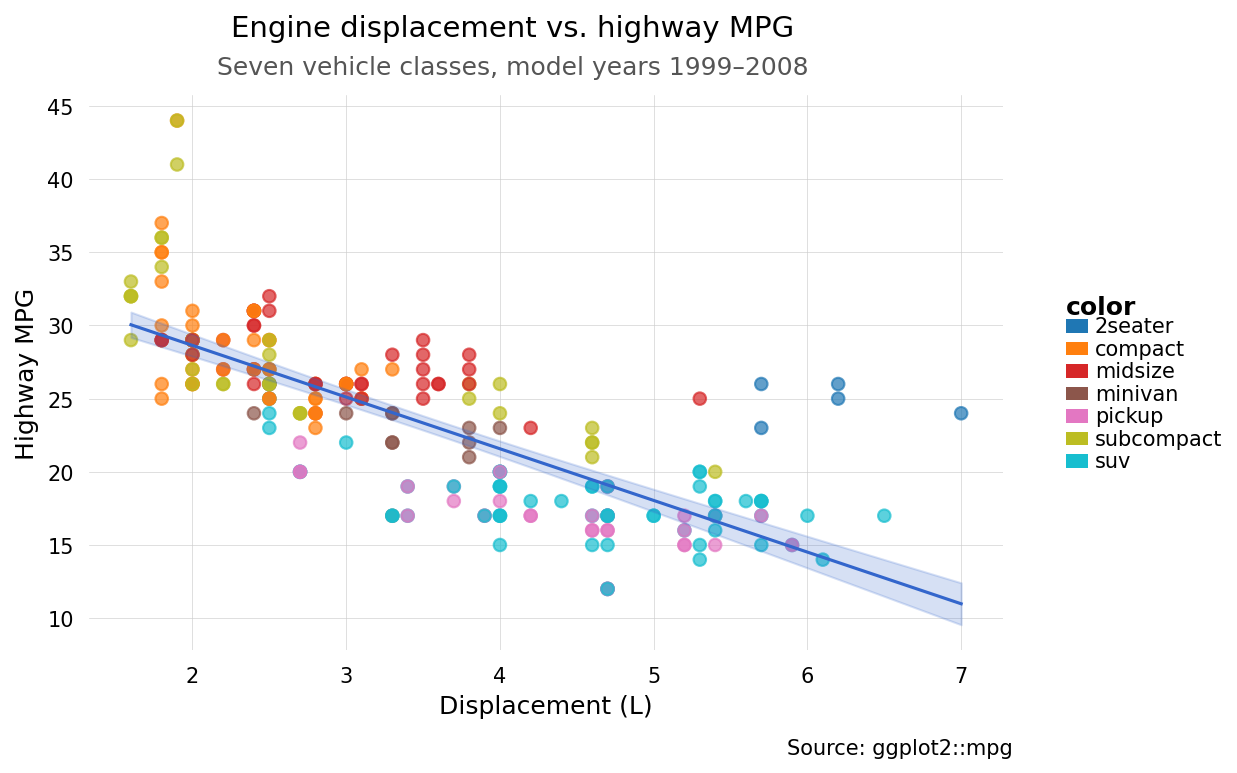
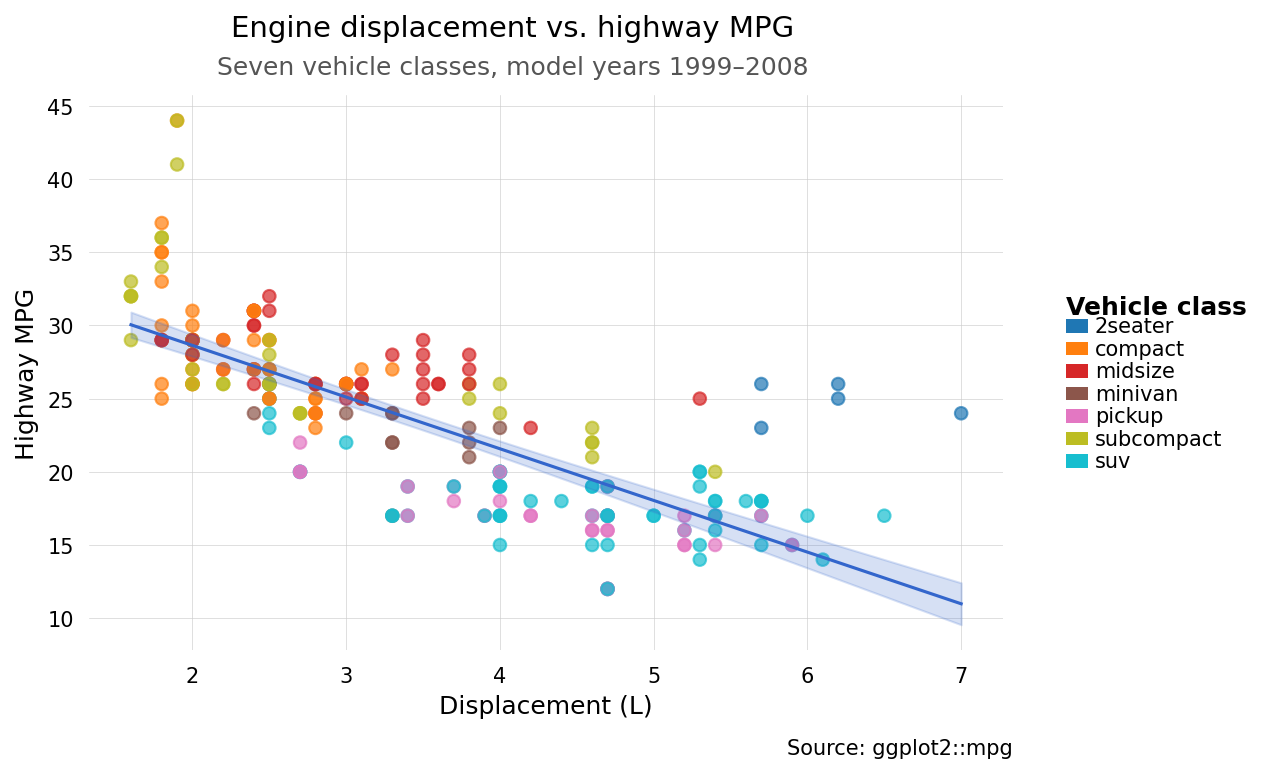
docs: label color legend as "Vehicle class" in hero example
labs() was missing the color= argument, so the legend title fell back
to the raw aesthetic name "color".

diff --git a/docs/generate_readme_images.py b/docs/generate_readme_images.py
@@ -41,6 +41,7 @@ hero = (
         caption="Source: ggplot2::mpg",
         x="Displacement (L)",
         y="Highway MPG",
+        color="Vehicle class",
     )
     + theme_minimal()
 )

diff --git a/README.md b/README.md
@@ -21,6 +21,7 @@ mpg = load_dataset("mpg")
         caption="Source: ggplot2::mpg",
         x="Displacement (L)",
         y="Highway MPG",
+        color="Vehicle class",
     )
     + theme_minimal()
 )
